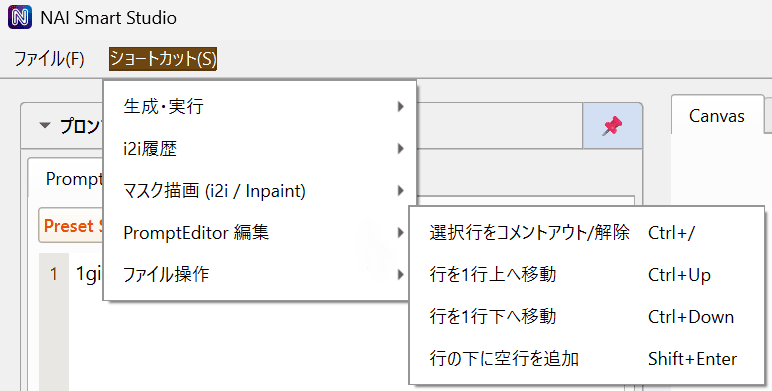
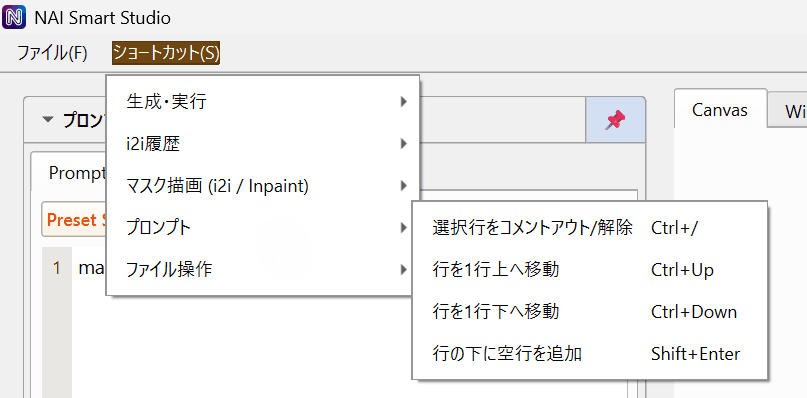
NAIマニュアル微修正

Changed region(s): [[0.0, 0.0, 1.0, 1.0]]

diff --git a/assets/manual/nai-smart-studio/nai-smart-studio_online_manual_j.html b/assets/manual/nai-smart-studio/nai-smart-studio_online_manual_j.html
@@ -640,7 +640,7 @@
               <li><span class="kbd">Ctrl + Y</span>: マスク Redo</li>
             </ul>
 
-            <h3>Prompt Editor</h3>
+            <h3>プロンプト</h3>
             <ul>
               <li><span class="kbd">Ctrl + /</span>: 行コメント切替</li>
               <li><span class="kbd">Ctrl + ↑</span>: 現在行を上へ移動</li>
